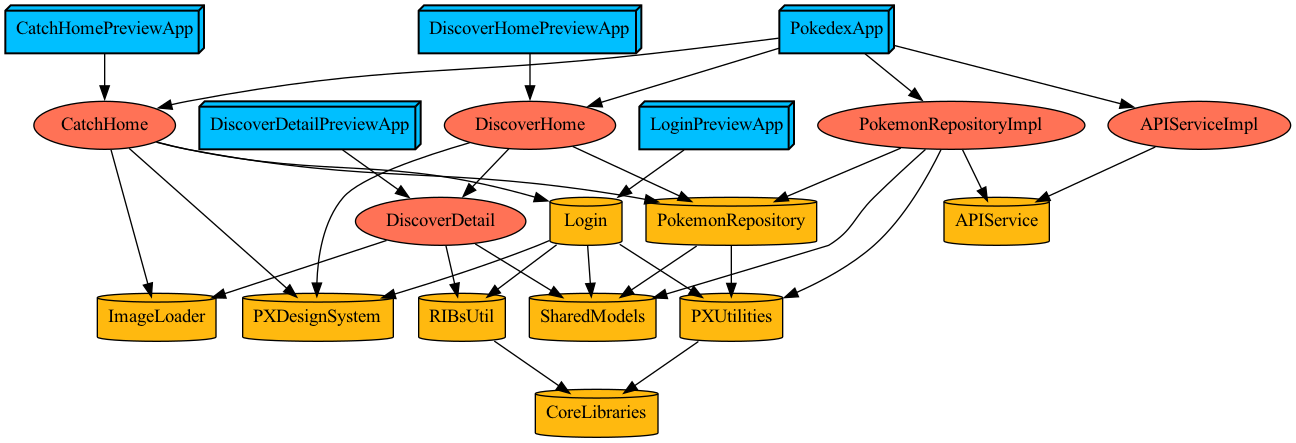
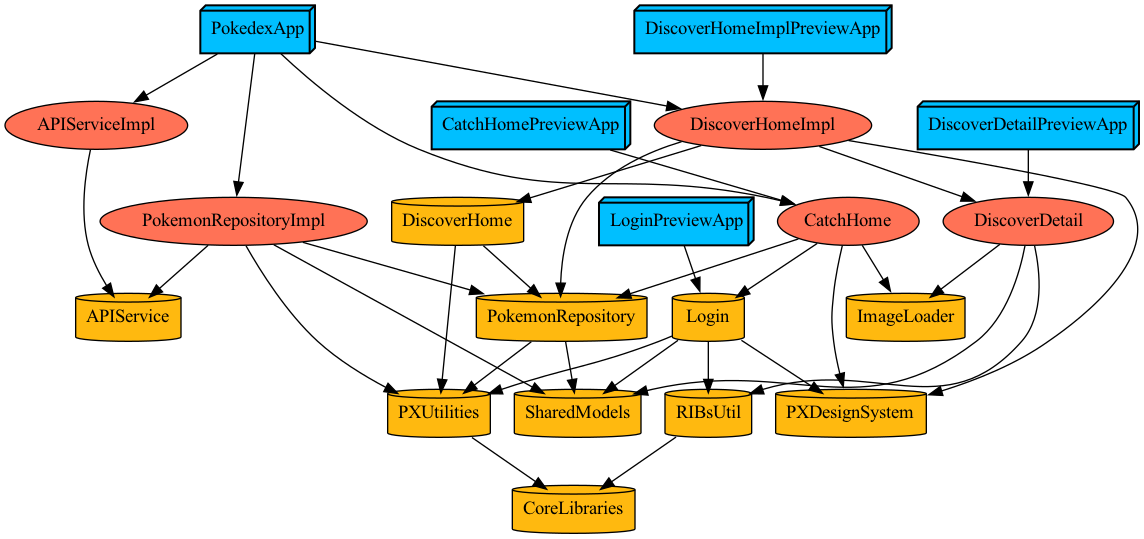
refactor: DiscoverHome 모듈 인터페이스 분리

diff --git a/Modules/Discover/Project.swift b/Modules/Discover/Project.swift
@@ -6,9 +6,19 @@ let project: Project = .feature(
   targetConfigurations: [
     TargetConfiguration(
       name: "DiscoverHome",
+      targetTypes: [],
+      productType: .framework,
+      dependencies: [
+        .project(target: "PokemonRepository", path: .relativeToRoot("Modules/Platform")),
+        .project(target: "PXUtilities", path: .relativeToRoot("Modules/Platform")),
+      ]
+    ),
+    TargetConfiguration(
+      name: "DiscoverHomeImpl",
       targetTypes: [.unitTest, .preview],
       productType: .staticLibrary,
       dependencies: [
+        .target(name: "DiscoverHome"),
         .target(name: "DiscoverDetail"),
         .project(target: "PokemonRepository", path: .relativeToRoot("Modules/Platform")),
         .project(target: "PXDesignSystem", path: .relativeToRoot("Modules/PXDesignSystem")),

diff --git a/Modules/Discover/DiscoverHomeImpl/Sources/DiscoverHomeBuilder.swift b/Modules/Discover/DiscoverHomeImpl/Sources/DiscoverHomeBuilder.swift
@@ -6,6 +6,7 @@
 //
 
 import APIService
+import DiscoverHome
 import DiscoverDetail
 import ImageLoader
 import PokemonRepository
@@ -13,12 +14,6 @@ import PXUtilities
 import RIBs
 import RxSwift
 import SharedModels
-
-public protocol DiscoverHomeDependency: Dependency {
-  var pokemonRepository: PokemonRepository { get }
-  var imageLoader: ImageLoader { get }
-  var user: ReadOnlyBehaviorSubject<User?> { get }
-}
 
 final class DiscoverHomeComponent:
   Component<DiscoverHomeDependency>,
@@ -39,12 +34,6 @@ final class DiscoverHomeComponent:
 }
 
 // MARK: - Builder
-
-public protocol DiscoverHomeBuildable: Buildable {
-  func build(
-    withListener listener: DiscoverHomeListener
-  ) -> ViewableRouting
-}
 
 public final class DiscoverHomeBuilder: Builder<DiscoverHomeDependency>, DiscoverHomeBuildable {
 

diff --git a/Modules/Discover/DiscoverHome/Sources/DiscoverHomeInterface.swift b/Modules/Discover/DiscoverHome/Sources/DiscoverHomeInterface.swift
@@ -1,0 +1,26 @@
+//
+//  DiscoverHomeBuilder.swift
+//  DiscoverHome
+//
+//  Created by Geonhee on 2023/03/10.
+//
+
+import ImageLoader
+import PokemonRepository
+import PXUtilities
+import RIBs
+import SharedModels
+
+public protocol DiscoverHomeDependency: Dependency {
+  var pokemonRepository: PokemonRepository { get }
+  var imageLoader: ImageLoader { get }
+  var user: ReadOnlyBehaviorSubject<User?> { get }
+}
+
+public protocol DiscoverHomeBuildable: Buildable {
+  func build(
+    withListener listener: DiscoverHomeListener
+  ) -> ViewableRouting
+}
+
+public protocol DiscoverHomeListener: AnyObject {}

diff --git a/Modules/PokedexApp/Project.swift b/Modules/PokedexApp/Project.swift
@@ -5,7 +5,7 @@ let project: Project = .app(
   name: "PokedexApp",
   dependencies: [
     .project(target: "CatchHome", path: .relativeToRoot("Modules/Catch")),
-    .project(target: "DiscoverHome", path: .relativeToRoot("Modules/Discover")),
+    .project(target: "DiscoverHomeImpl", path: .relativeToRoot("Modules/Discover")),
     .project(target: "APIServiceImpl", path: .relativeToRoot("Modules/Platform")),
     .project(target: "PokemonRepositoryImpl", path: .relativeToRoot("Modules/Platform")),
   ],

diff --git a/Modules/Discover/DiscoverHomeImpl/Sources/DiscoverHomeInteractor.swift b/Modules/Discover/DiscoverHomeImpl/Sources/DiscoverHomeInteractor.swift
@@ -5,6 +5,7 @@
 //  Created by Geonhee on 2023/03/10.
 //
 
+import DiscoverHome
 import PokemonRepository
 import PXUtilities
 import RIBs
@@ -22,8 +23,6 @@ protocol DiscoverHomePresentable: Presentable {
 
   func updateViews(with pokemons: [Pokemon])
 }
-
-public protocol DiscoverHomeListener: AnyObject {}
 
 protocol DiscoverHomeInteractorDependency {
   var pokemonRepository: PokemonRepository { get }

diff --git a/Modules/PokedexApp/Sources/AppRoot/AppRootBuilder.swift b/Modules/PokedexApp/Sources/AppRoot/AppRootBuilder.swift
@@ -9,6 +9,7 @@ import CatchHome
 import PokemonRepository
 import ImageLoader
 import DiscoverHome
+import DiscoverHomeImpl
 import PXUtilities
 import RIBs
 import RxSwift

diff --git a/Modules/Discover/DiscoverHomeImpl/Sources/DiscoverHomeRouter.swift b/Modules/Discover/DiscoverHomeImpl/Sources/DiscoverHomeRouter.swift
@@ -5,6 +5,7 @@
 //  Created by Geonhee on 2023/03/10.
 //
 
+import DiscoverHome
 import DiscoverDetail
 import RIBs
 import RIBsUtil
